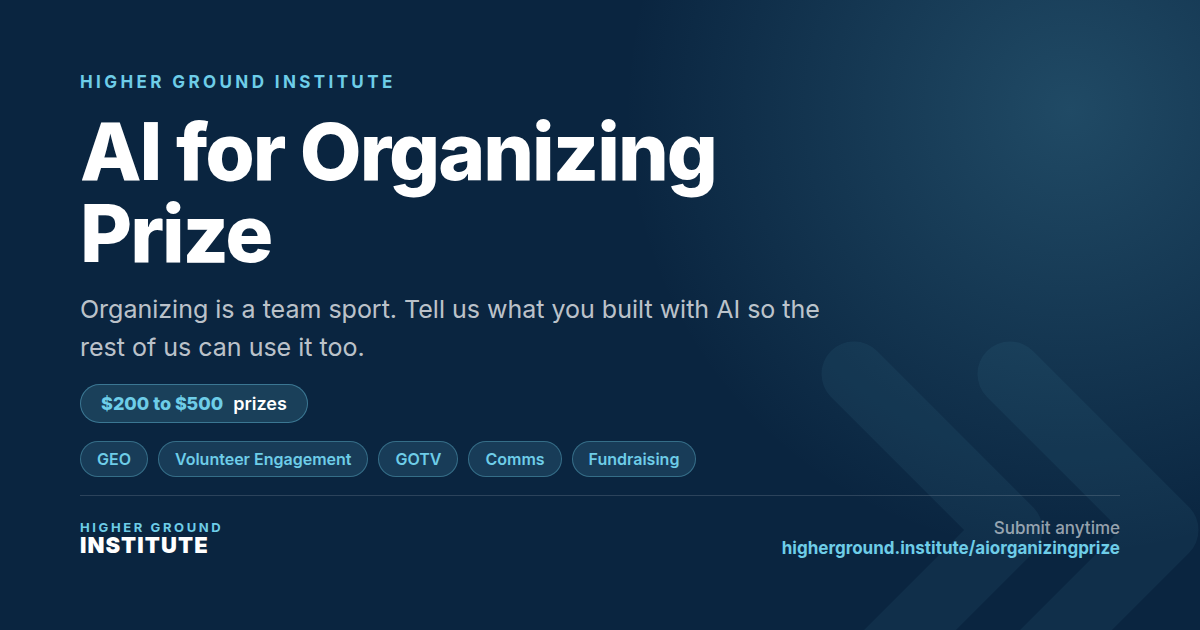
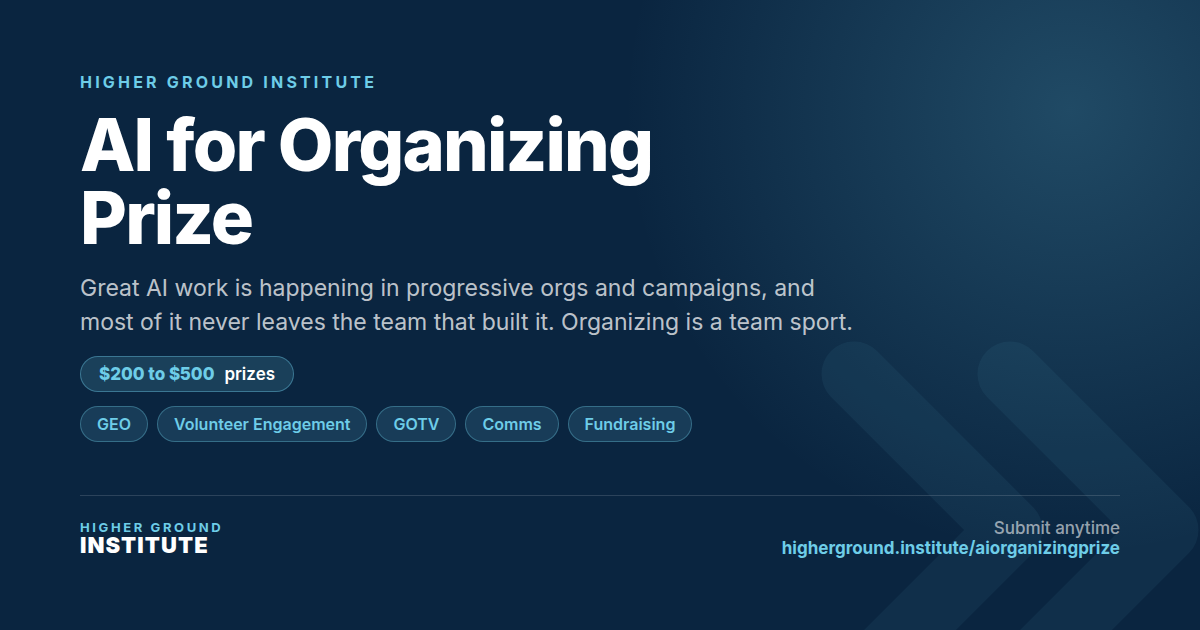
Update prize page social cards and meta copy to match hero
Claude-Session: https://claude.ai/code/session_01Eb8euinG8R1LuD6qbF5gaK

Changed region(s): [[0.0617, 0.181, 0.7092, 0.754], [0.0617, 0.1206, 0.3392, 0.1508]]

diff --git a/aiorganizingprize/index.html b/aiorganizingprize/index.html
@@ -4,14 +4,14 @@
   <meta charset="UTF-8">
   <meta name="viewport" content="width=device-width, initial-scale=1.0">
   <title>AI for Organizing Prize | Higher Ground Institute</title>
-  <meta name="description" content="Organizing is a team sport. The Higher Ground Institute AI for Organizing Prize highlights the prompts, skills, apps, and workflows progressive organizers are building with AI, so more people can use them. Prizes of $200 to $500, rolling review, winners recognized October 6 and October 20.">
+  <meta name="description" content="Great AI work is happening in progressive orgs and campaigns, and most of it never leaves the team that built it. The Higher Ground Institute AI for Organizing Prize collects the prompts, skills, apps, and workflows organizers are building so more people can use them. Prizes of $200 to $500, rolling review, winners recognized October 6 and October 20.">
   <link rel="canonical" href="https://higherground.institute/aiorganizingprize/">
   <link rel="icon" type="image/svg+xml" href="../favicon.svg">
 
   <!-- Open Graph -->
   <meta property="og:site_name" content="Higher Ground Institute">
   <meta property="og:title" content="AI for Organizing Prize">
-  <meta property="og:description" content="Organizing is a team sport. Great AI work is happening in progressive orgs and campaigns and most of it never gets shared. Tell us what you built. Prizes of $200 to $500, rolling review.">
+  <meta property="og:description" content="Great AI work is happening in progressive orgs and campaigns, and most of it never leaves the team that built it. Organizing is a team sport. Tell us what you made. Prizes of $200 to $500, rolling review.">
   <meta property="og:type" content="website">
   <meta property="og:url" content="https://higherground.institute/aiorganizingprize/">
   <meta property="og:image" content="https://higherground.institute/aiorganizingprize/og-image.png">
@@ -19,13 +19,13 @@
   <meta property="og:image:type" content="image/png">
   <meta property="og:image:width" content="1200">
   <meta property="og:image:height" content="630">
-  <meta property="og:image:alt" content="AI for Organizing Prize, a Higher Ground Institute program. Prizes of $200 to $500. Categories: GEO, Volunteer Engagement, GOTV, Comms, Fundraising.">
+  <meta property="og:image:alt" content="AI for Organizing Prize, a Higher Ground Institute program. Great AI work is happening in progressive orgs and campaigns, and most of it never leaves the team that built it. Organizing is a team sport. Prizes of $200 to $500. Categories: GEO, Volunteer Engagement, GOTV, Comms, Fundraising.">
   <meta property="og:locale" content="en_US">
 
   <!-- Twitter / X -->
   <meta name="twitter:card" content="summary_large_image">
   <meta name="twitter:title" content="AI for Organizing Prize">
-  <meta name="twitter:description" content="Organizing is a team sport. Great AI work is happening in progressive orgs and campaigns and most of it never gets shared. Tell us what you built. Prizes of $200 to $500, rolling review.">
+  <meta name="twitter:description" content="Great AI work is happening in progressive orgs and campaigns, and most of it never leaves the team that built it. Organizing is a team sport. Tell us what you made. Prizes of $200 to $500, rolling review.">
   <meta name="twitter:image" content="https://higherground.institute/aiorganizingprize/og-image.png">
   <meta name="twitter:image:alt" content="AI for Organizing Prize, a Higher Ground Institute program.">
 
@@ -39,7 +39,7 @@
     "@type": "WebPage",
     "name": "AI for Organizing Prize",
     "url": "https://higherground.institute/aiorganizingprize/",
-    "description": "A Higher Ground Institute prize competition highlighting the prompts, skills, apps, and workflows progressive practitioners are building with AI, so more of the ecosystem can learn from each other and reuse what works.",
+    "description": "A Higher Ground Institute prize competition collecting the prompts, skills, apps, and workflows progressive organizers are building with AI, so teams can learn from each other and reuse what works instead of rebuilding it.",
     "isPartOf": {
       "@type": "WebSite",
       "name": "Higher Ground Institute",
